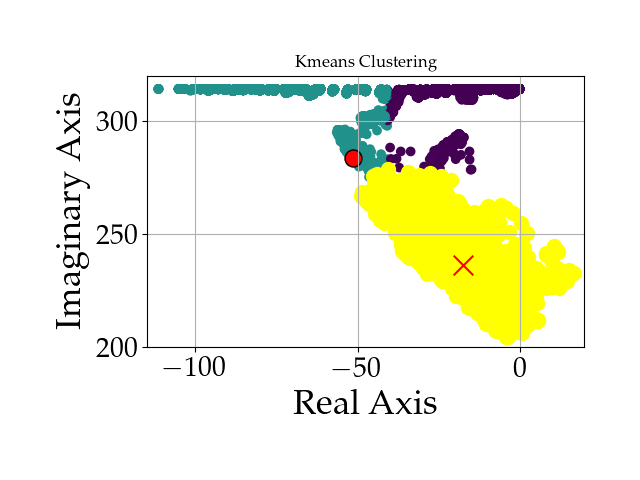
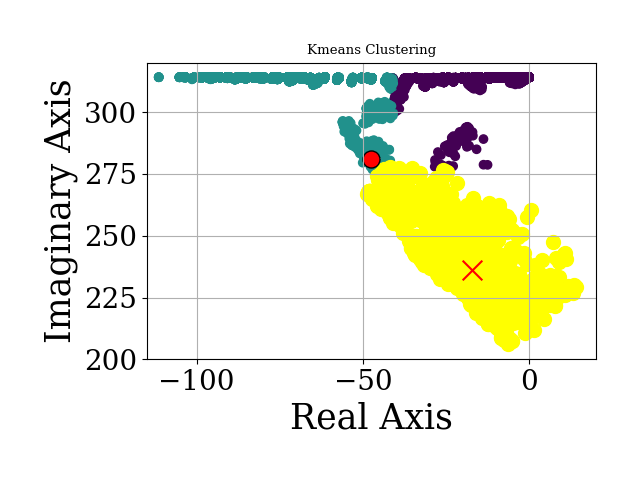
eliminate stable column from data and fill na with zero

diff --git a/identification_of_critical_eigenvalues/Calculate_DI.py b/identification_of_critical_eigenvalues/Calculate_DI.py
@@ -78,9 +78,9 @@ def reassign_eigenvalues(real_selected_df, imag_selected_df, X, labels, x_region
 #%% import X, real_selected_df, imag_selected_df
 
 # get the data to run the model on
-loaded_data = "../results/datagen_ACOPF_LF09_seed17_nc5_ns5_d5_20241119_115327_8464"
+#loaded_data = "../results/datagen_ACOPF_LF09_seed17_nc5_ns5_d5_20241119_115327_8464"
 #loaded_data = "../results/datagen_ACOPF_LF09_seed8_nc3_ns3_d5_20250123_000244_4541"
-#loaded_data = "../results/ACOPF_standalone_NREL_LF095_seed16_nc3_ns100_20250203_154241_9253"
+loaded_data = "../results/ACOPF_standalone_NREL_LF095_seed16_nc3_ns100_20250203_154241_9253"
 [df_real_clean, df_imag_clean]=import_and_clean(loaded_data)
 
 # make a json file with the data_number in it so the number can be transported for regression selection scripts
